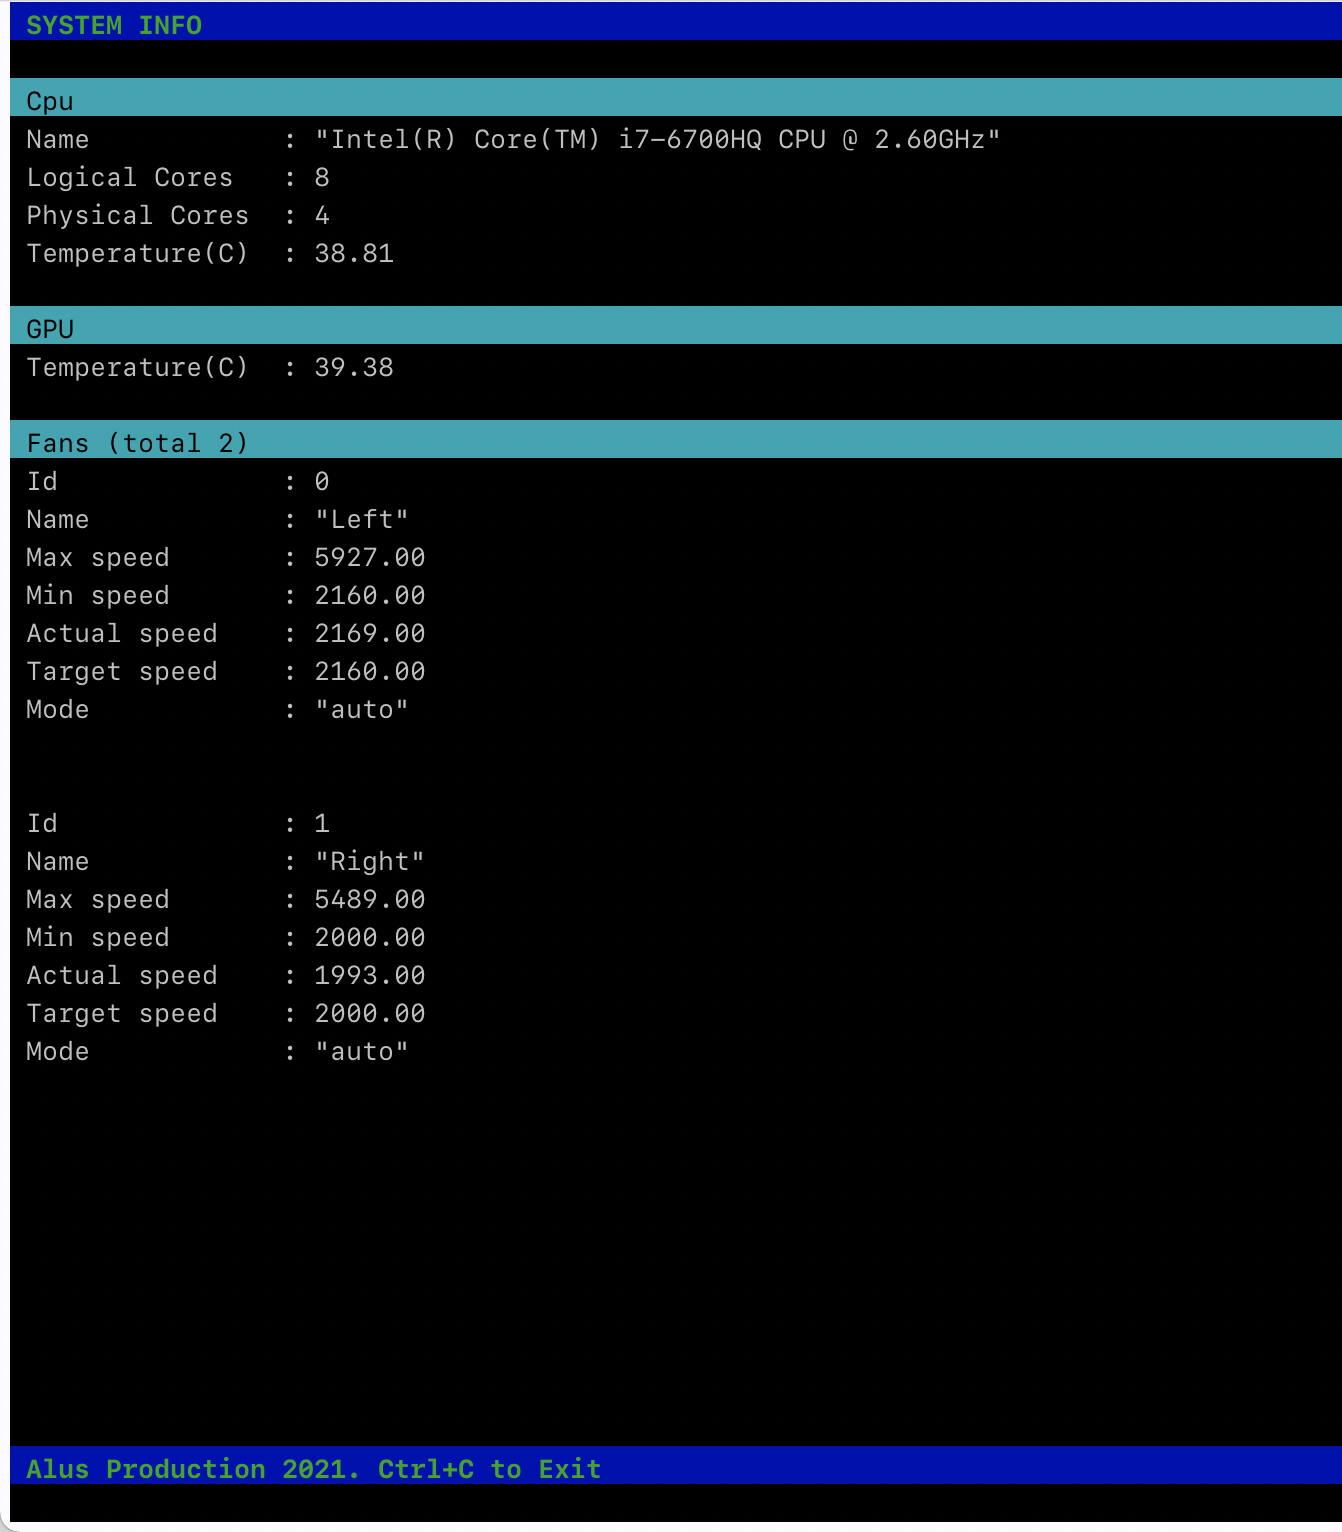
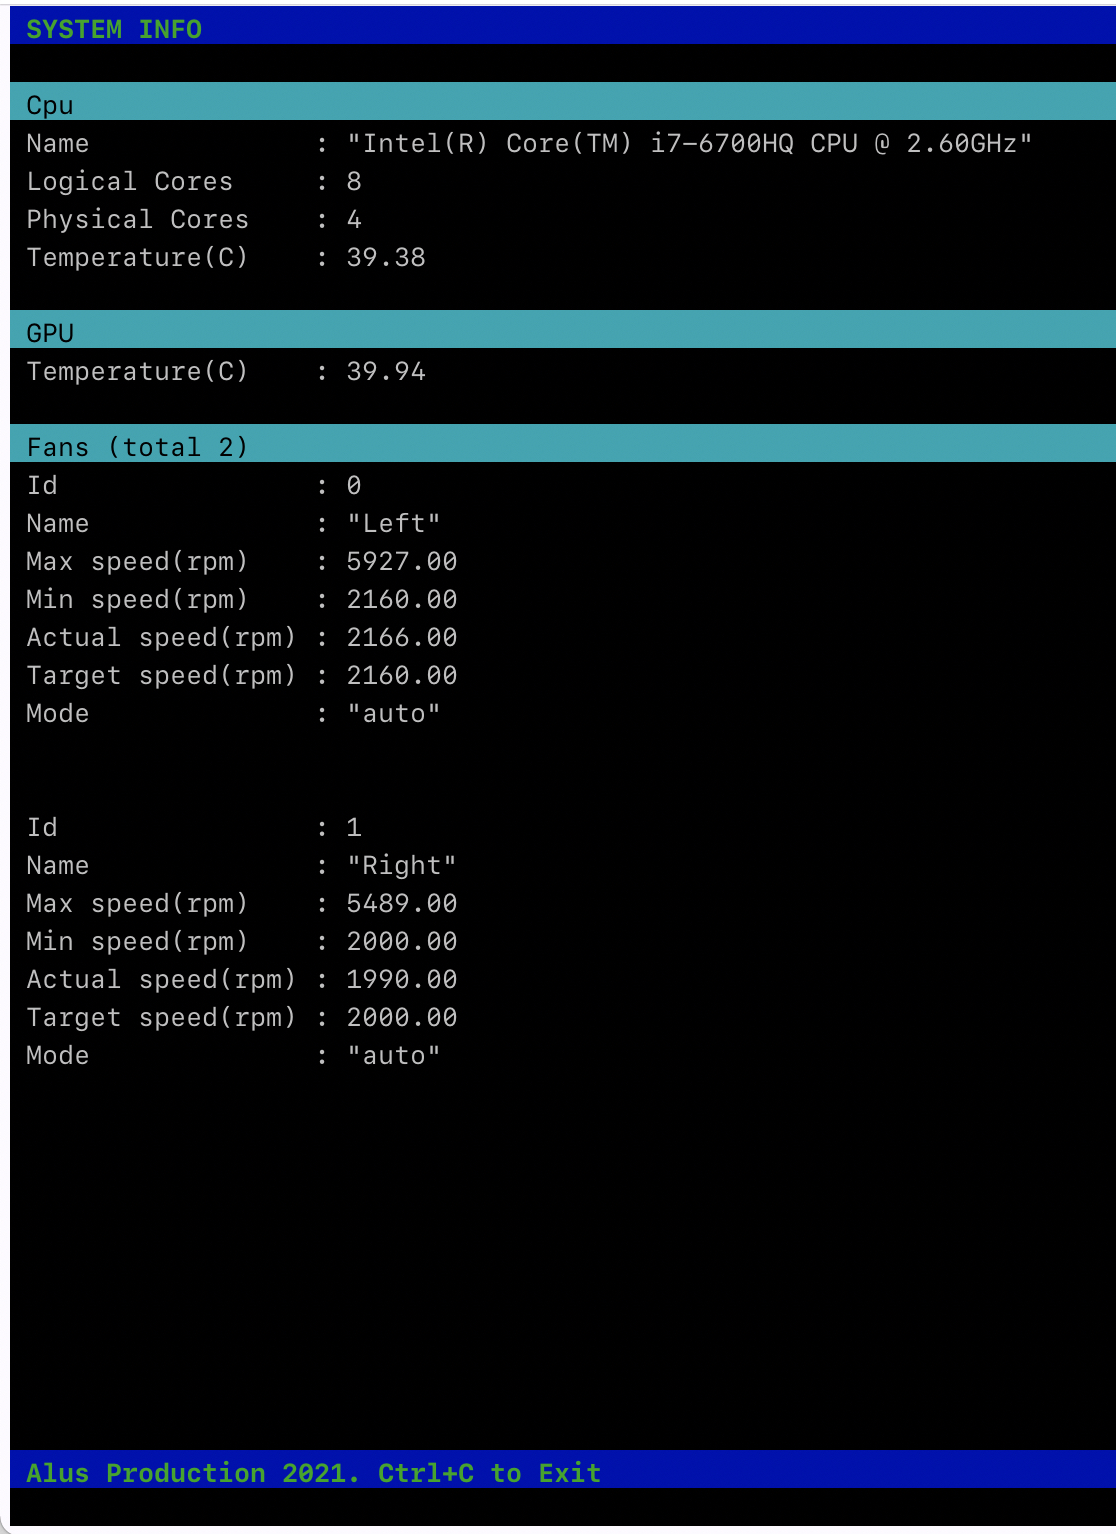
Updated screen

Changed region(s): [[0.0, 0.0, 1.0, 0.4909], [0.0, 0.5215, 0.4265, 0.7056], [0.0, 0.951, 0.5484, 1.0]]

diff --git a/ui/console/UI.cpp b/ui/console/UI.cpp
@@ -21,10 +21,10 @@ void UI::show(nlohmann::ordered_json &json) {
     attrset(COLOR_PAIR(3));
     writeData(" Cpu", 2);
     attrset(COLOR_PAIR(1));
-    writeData(row(cpu, " Name            : ", "name"), 3);
-    writeData(row(cpu, " Logical Cores   : ", "logical_cores"), 4);
-    writeData(row(cpu, " Physical Cores  : ", "phys_cores"), 5);
-    writeData(row_double(cpu, " Temperature(C)  : ", cpu["temperature"]["celsius"]), 6);
+    writeData(row(cpu, " Name              : ", "name"), 3);
+    writeData(row(cpu, " Logical Cores     : ", "logical_cores"), 4);
+    writeData(row(cpu, " Physical Cores    : ", "phys_cores"), 5);
+    writeData(row_double(cpu, " Temperature(C)    : ", cpu["temperature"]["celsius"]), 6);
 
     writeData(EMPTY_ROW, 7);
 
@@ -32,7 +32,7 @@ void UI::show(nlohmann::ordered_json &json) {
     writeData(" GPU", 8);
     attrset(COLOR_PAIR(1));
     auto gpu = json["system_info"]["gpu"];
-    writeData(row_double(gpu, " Temperature(C)  : ", gpu["temperature"]["celsius"]), 9);
+    writeData(row_double(gpu, " Temperature(C)    : ", gpu["temperature"]["celsius"]), 9);
 
     writeData(EMPTY_ROW, 10);
 
@@ -47,13 +47,13 @@ void UI::show(nlohmann::ordered_json &json) {
     int rows = 8;
     for (int i = 0; i < fans.size(); i++) {
         auto fan = fans.at(i);
-        writeData(row(fan, " Id              : ", "id"), start + rows * i + i);
-        writeData(row(fan, " Name            : ", "name"), start + rows * i + 1 + i);
-        writeData(row_double(fan, " Max speed       : ", fan["maximum_speed"]["rpm"]), start + rows * i + 2 + i);
-        writeData(row_double(fan, " Min speed       : ", fan["minimal_speed"]["rpm"]), start + rows * i + 3 + i);
-        writeData(row_double(fan, " Actual speed    : ", fan["actual_speed"]["rpm"]), start + rows * i + 4 + i);
-        writeData(row_double(fan, " Target speed    : ", fan["target_speed"]["rpm"]), start + rows * i + 5 + i);
-        writeData(row(fan, " Mode            : ", "mode"), start + rows * i + 6 + i);
+        writeData(row(fan, " Id                : ", "id"), start + rows * i + i);
+        writeData(row(fan, " Name              : ", "name"), start + rows * i + 1 + i);
+        writeData(row_double(fan, " Max speed(rpm)    : ", fan["maximum_speed"]["rpm"]), start + rows * i + 2 + i);
+        writeData(row_double(fan, " Min speed(rpm)    : ", fan["minimal_speed"]["rpm"]), start + rows * i + 3 + i);
+        writeData(row_double(fan, " Actual speed(rpm) : ", fan["actual_speed"]["rpm"]), start + rows * i + 4 + i);
+        writeData(row_double(fan, " Target speed(rpm) : ", fan["target_speed"]["rpm"]), start + rows * i + 5 + i);
+        writeData(row(fan, " Mode              : ", "mode"), start + rows * i + 6 + i);
     }
     curs_set(0);
     refresh();

diff --git a/README.md b/README.md
@@ -56,7 +56,7 @@ Example of output `SystemInfo::toString()`:
         "minimal_speed": {
           "rpm": 2160.0
         },
-        "mode": "forced",
+        "mode": "auto",
         "name": "Left",
         "safe_speed": {
           "rpm": -1.0
@@ -76,7 +76,7 @@ Example of output `SystemInfo::toString()`:
         "minimal_speed": {
           "rpm": 2000.0
         },
-        "mode": "forced",
+        "mode": "auto",
         "name": "Right",
         "safe_speed": {
           "rpm": -1.0
